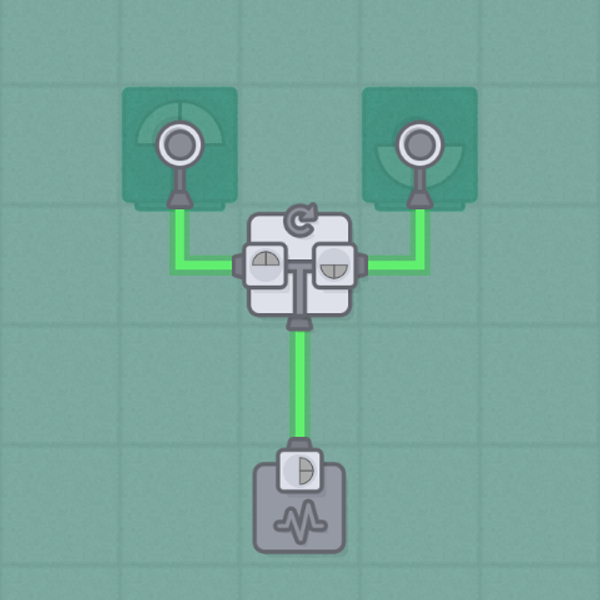
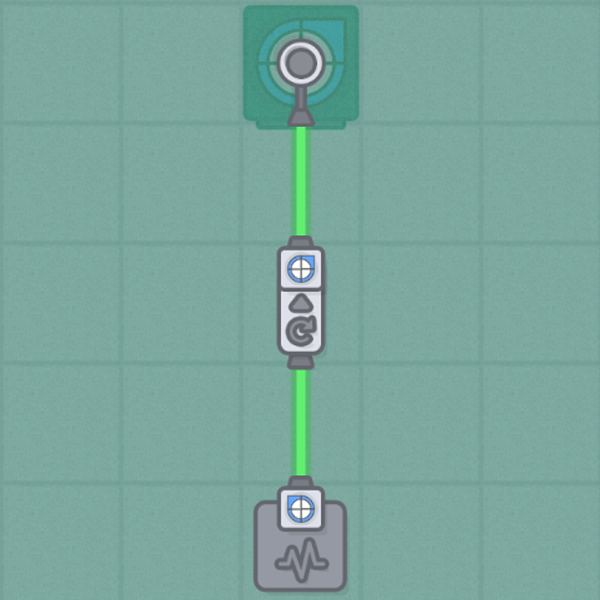
ColorZ-ShrimpEdition Mod Is Out !

Changed region(s): [[0.18, 0.0, 0.81, 0.99]]

diff --git a/src/js/game/colors.js b/src/js/game/colors.js
@@ -2,23 +2,13 @@ var colors = [];
 
 var HexToRGB = function(hex) {
     var aRgbHex = hex.match(/.{1,2}/g);
-    var r = parseInt(aRgbHex[0], 16);
-    var g = parseInt(aRgbHex[1], 16);
-    var b = parseInt(aRgbHex[2], 16);
-    var R = r.toString();
-    var G = g.toString();
-    var B = b.toString();
+    var R = parseInt(aRgbHex[0], 16).toString();
+    var G = parseInt(aRgbHex[1], 16).toString();
+    var B = parseInt(aRgbHex[2], 16).toString();
     while (R.length < 3){R = "0" + R};
     while (G.length < 3){G = "0" + G};
     while (B.length < 3){B = "0" + B};
     return R + G + B;
-}
-
-var rgbToHex = function(rgb) {
-    var r = colorToHex(rgb.slice(0, 3));
-    var g = colorToHex(rgb.slice(3, 6));
-    var b = colorToHex(rgb.slice(6, 9));
-    return r+g+b;
 }
 
 var RandGandBToHex = function(R, G, B) {
@@ -36,11 +26,11 @@ var colorToHex = function (color) {
     return hex;
 }
 
-var HexToReadableRGB = function (hex) {
-    var RGB = HexToRGB(hex.slice(1));
-    var R = RGB.slice(0,3);
-    var G = RGB.slice(3,6);
-    var B = RGB.slice(6,9);
+export const HexToReadableRGB = function (hex) {
+    const RGB = HexToRGB(hex);
+    const R = RGB.slice(0,3);
+    const G = RGB.slice(3,6);
+    const B = RGB.slice(6,9);
     return "(" + R + "," + G + "," + B + ")"
 }
 
@@ -104,21 +94,11 @@ for (var R = 0; R < colorCount + 1; R++) {
     }   
 }
 
-if (colorCount >= 20) {
+if (colorCount < 20) {
     colors.push("aaaaaa");
 }
 
-
-/* colors.push(red);
-colors.push(green);
-colors.push(blue);
-colors.push(black); */
-
 export const enumColors = {};
-export const enumShortcodeToColor = {};
-export const enumColorsToHexCode = {}
-export const HexCodeToRGBCode = {};
-export const enumColorsToR_G_B = {};
 
 
 export const oldShortCodeToNewShortCode = {
@@ -134,21 +114,4 @@ export const oldShortCodeToNewShortCode = {
 
 for(const c of colors) {
     enumColors[c] = c;
-}
-
-/** @enum {string} */
-export const enumColorToShortcode = enumColors;
-
-/** @enum {string} */
-for(const c of colors) {
-    enumColorsToHexCode[c] = ("#" + c);
-}
-
-/** @enum {enumColors} */
-for (const key in enumColorToShortcode) {
-    enumShortcodeToColor[enumColorToShortcode[key]] = key;
-}
-
-for (const c of colors) {
-    HexCodeToRGBCode[c] = HexToReadableRGB(enumColorsToHexCode[c]);
 }

diff --git a/src/js/game/systems/color_observer.js b/src/js/game/systems/color_observer.js
@@ -1,17 +1,10 @@
 import { globalConfig } from "../../core/config";
-import { Loader } from "../../core/loader";
 import { BaseItem } from "../base_item";
-import { enumColors, enumColorsToHexCode} from "../colors";
 import { ColorObserverComponent } from "../components/color_observer";
-import { MetaColorObserverBuilding } from "../buildings/color_observer";
 import { GameSystemWithFilter } from "../game_system_with_filter";
-import { isTrueItem } from "../items/boolean_item";
 import { ColorItem, COLOR_ITEM_SINGLETONS } from "../items/color_item";
 import { MapChunkView } from "../map_chunk_view";
-import { MetaAnalyzerBuilding } from "../buildings/analyzer";
-import { THEME } from "../theme";
-import { Rectangle } from "../../core/rectangle";
-import { HexCodeToRGBCode } from "../colors"
+import { HexToReadableRGB } from "../colors"
 
 export class ColorObserverSystem extends GameSystemWithFilter {
     constructor(root) {
@@ -51,7 +44,7 @@ export class ColorObserverSystem extends GameSystemWithFilter {
     }
 
     DrawDisplayers(ctx, x, y, position, hex, a) {
-        const color = HexCodeToRGBCode[hex];
+        const color = HexToReadableRGB(hex);
         ctx.textAlign = "center";
         var text = "";
 
@@ -60,7 +53,7 @@ export class ColorObserverSystem extends GameSystemWithFilter {
             this.drawStroked(ctx, text, x + position + 15, y + 20, 64);  
         } else {
             text = color.slice(4 * a + 1, 4 * a + 4);
-            ctx.fillStyle = enumColorsToHexCode[hex];    
+            ctx.fillStyle = "#" + hex;    
             ctx.fillRect(x + position, y, 30, 30);
             this.drawStroked(ctx, text, x + position + 15, y + 20, 32);    
         }
@@ -148,7 +141,7 @@ export class ColorObserverSystem extends GameSystemWithFilter {
 
             const origin = entity.components.StaticMapEntity.origin;
             if (value instanceof ColorItem) {
-                parameters.context.fillStyle = enumColorsToHexCode[value.color];
+                parameters.context.fillStyle = "#" + value.color;
                 parameters.context.fillRect(
                     origin.x * globalConfig.tileSize,
                     origin.y * globalConfig.tileSize,

diff --git a/src/js/game/systems/display.js b/src/js/game/systems/display.js
@@ -1,17 +1,12 @@
 import { globalConfig } from "../../core/config";
-import { Loader } from "../../core/loader";
 import { BaseItem } from "../base_item";
-import { enumColors, enumColorsToHexCode} from "../colors";
+import { enumColors} from "../colors";
 import { DisplayComponent } from "../components/display";
 import { Dimension } from "../buildings/display";
 import { GameSystemWithFilter } from "../game_system_with_filter";
 import { isTrueItem } from "../items/boolean_item";
 import { ColorItem, COLOR_ITEM_SINGLETONS } from "../items/color_item";
 import { MapChunkView } from "../map_chunk_view";
-import { MetaAnalyzerBuilding } from "../buildings/analyzer";
-import { THEME } from "../theme";
-import { Rectangle } from "../../core/rectangle";
-import { MetaBuilding } from "../meta_building";
 
 export class DisplaySystem extends GameSystemWithFilter {
     constructor(root) {
@@ -84,7 +79,7 @@ export class DisplaySystem extends GameSystemWithFilter {
                 const origin = entity.components.StaticMapEntity.origin;
                 if (value.getItemType() === "color") {
                     const D_context = parameters.context;
-                    D_context.fillStyle = enumColorsToHexCode[value.getAsCopyableKey()];
+                    D_context.fillStyle = "#" + value.getAsCopyableKey();
                     D_context.fillRect((origin.x + 0.5) * globalConfig.tileSize - 15 + Dimension.x / 2 - 0.5, (origin.y + 0.5) * globalConfig.tileSize - 15 + Dimension.y / 2, 30 * Dimension.x, 30 * Dimension.y - 0.5)
                 } else if (value.getItemType() === "shape") {
                     value.drawItemCenteredClipped(
@@ -125,7 +120,7 @@ export class DisplaySystem extends GameSystemWithFilter {
 
             const origin = entity.components.StaticMapEntity.origin;
             if (value instanceof ColorItem) {
-                parameters.context.fillStyle = enumColorsToHexCode[value.color];
+                parameters.context.fillStyle = "#" + value.color;
                 parameters.context.fillRect(
                     origin.x * globalConfig.tileSize,
                     origin.y * globalConfig.tileSize,

diff --git a/src/js/game/hud/parts/shape_viewer.js b/src/js/game/hud/parts/shape_viewer.js
@@ -1,7 +1,7 @@
 import { InputReceiver } from "../../../core/input_receiver";
 import { makeDiv, removeAllChildren } from "../../../core/utils";
 import { T } from "../../../translations";
-import { enumColorsToHexCode, HexCodeToRGBCode } from "../../colors";
+import { HexToReadableRGB } from "../../colors";
 import { KeyActionMapper, KEYMAPPINGS } from "../../key_action_mapper";
 import { ShapeDefinition } from "../../shape_definition";
 import { BaseHUDPart } from "../base_hud_part";
@@ -104,19 +104,26 @@ export class HUDShapeViewer extends BaseHUDPart {
                 const quadElem = makeDiv(layerElem, null, ["quad", "quad-" + quad]);
 
                 const contents = layers[i][quad];
-                if (contents) {
+                if (contents && contents.color != "aaaaaa") {
                     const colorLabelElem = makeDiv(
                         quadElem,
                         null,
                         ["colorLabel"],
-                        HexCodeToRGBCode[contents.color]
+                        HexToReadableRGB(contents.color)
+                    );
+                } else if (!contents){
+                    const emptyLabelElem = makeDiv(
+                        quadElem,
+                        null,
+                        ["emptyLabel"],
+                        T.ingame.shapeViewer.empty
                     );
                 } else {
                     const emptyLabelElem = makeDiv(
                         quadElem,
                         null,
                         ["emptyLabel"],
-                        T.ingame.shapeViewer.empty
+                        "uncolored"
                     );
                 }
             }

diff --git a/src/js/game/shape_definition.js b/src/js/game/shape_definition.js
@@ -4,7 +4,7 @@ import { smoothenDpi } from "../core/dpi_manager";
 import { DrawParameters } from "../core/draw_parameters";
 import { Vector } from "../core/vector";
 import { BasicSerializableObject, types } from "../savegame/serialization";
-import { enumColors, enumColorsToHexCode, oldShortCodeToNewShortCode, enumShortcodeToColor } from "./colors";
+import { enumColors, oldShortCodeToNewShortCode } from "./colors";
 import { THEME } from "./theme";
 
 /**
@@ -250,7 +250,7 @@ export class ShapeDefinition extends BasicSerializableObject {
                     colorText = colorText.slice(1,7);
                 }
                 const subShape = enumShortcodeToSubShape[shapeText];
-                const color = enumShortcodeToColor[colorText];
+                const color = colorText;
 
                 // Valid shape
                 if (subShape) {
@@ -429,7 +429,7 @@ export class ShapeDefinition extends BasicSerializableObject {
                 context.translate(centerQuadrantX, centerQuadrantY);
                 context.rotate(rotation);
 
-                context.fillStyle = enumColorsToHexCode[color];
+                context.fillStyle = "#" + color;
                 context.strokeStyle = THEME.items.outline;
                 context.lineWidth = THEME.items.outlineWidth;
 

diff --git a/src/js/game/tutorial_goals_mappings.js b/src/js/game/tutorial_goals_mappings.js
@@ -30,8 +30,7 @@ const typed = x => x;
 export const enumHubGoalRewardsToContentUnlocked = {
     [enumHubGoalRewards.reward_cutter_and_trash]: typed([[MetaCutterBuilding, defaultBuildingVariant]]),
     [enumHubGoalRewards.reward_rotater]: typed([[MetaRotaterBuilding, defaultBuildingVariant]]),
-    [enumHubGoalRewards.reward_painter]: typed([[MetaPainterBuilding, defaultBuildingVariant]]),
-    [enumHubGoalRewards.reward_mixer]: typed([[MetaMixerBuilding, defaultBuildingVariant]]),
+    [enumHubGoalRewards.reward_painter_and_mixer]: typed([[MetaPainterBuilding, defaultBuildingVariant]]),
     [enumHubGoalRewards.reward_stacker]: typed([[MetaStackerBuilding, defaultBuildingVariant]]),
     [enumHubGoalRewards.reward_balancer]: typed([[MetaBalancerBuilding, defaultBuildingVariant]]),
     [enumHubGoalRewards.reward_tunnel]: typed([[MetaUndergroundBeltBuilding, defaultBuildingVariant]]),

diff --git a/src/js/game/items/color_item.js b/src/js/game/items/color_item.js
@@ -3,7 +3,7 @@ import { smoothenDpi } from "../../core/dpi_manager";
 import { DrawParameters } from "../../core/draw_parameters";
 import { types } from "../../savegame/serialization";
 import { BaseItem } from "../base_item";
-import { enumColors, enumColorsToHexCode } from "../colors";
+import { enumColors } from "../colors";
 import { THEME } from "../theme";
 import { drawSpriteClipped } from "../../core/draw_utils";
 
@@ -115,7 +115,7 @@ export class ColorItem extends BaseItem {
         context.translate((w * dpi) / 2, (h * dpi) / 2);
         context.scale((dpi * w) / 12, (dpi * h) / 12);
 
-        context.fillStyle = enumColorsToHexCode[this.color];
+        context.fillStyle = "#" + this.color;
         context.strokeStyle = THEME.items.outline;
         context.lineWidth = 2 * THEME.items.outlineWidth;
         context.beginCircle(2, -1, 3);

diff --git a/src/js/changelog.js b/src/js/changelog.js
@@ -1,12 +1,13 @@
 export const CHANGELOG = [
     {
-        version: "1.2.1",
-        date: "22.10.2020",
+        version: "ColorZ-ShrimpEdition Version 1.0",
+        date: " 22.10.2020",
         entries: [
+            "Some performance improvements.",
             "216 new ColorZ!",
             "1 New building.",
             "Now you can see displays' signal when zoomed out.",
-            "Sandbox controller now has full everything button that gives you so many bluprints, maxes every upgrade and levels you up 26 level.",
+            "Sandbox controller now has full everything button that gives you so many bluprints, maxes every upgrade and levels you up 26 level. And reset everything button that returns you 26 level earlier and makes all upgrades level 0",
         ],
     },
     {

diff --git a/src/js/game/hud/parts/color_blind_helper.js b/src/js/game/hud/parts/color_blind_helper.js
@@ -7,7 +7,7 @@ import { DrawParameters } from "../../../core/draw_parameters";
 import { THEME } from "../../theme";
 import { globalConfig } from "../../../core/config";
 //import { T } from "../../../translations";
-import {HexCodeToRGBCode} from "../../../game/colors"
+import { HexToReadableRGB } from "../../../game/colors"
 
 export class HUDColorBlindHelper extends BaseHUDPart {
     createElements(parent) {
@@ -25,7 +25,7 @@ export class HUDColorBlindHelper extends BaseHUDPart {
     onColorBelowTileChanged(color) {
         this.belowTileIndicator.classList.toggle("visible", !!color);
         if (color) {
-            this.belowTileIndicator.innerText = HexCodeToRGBCode[color];
+            this.belowTileIndicator.innerText = HexToReadableRGB(color);
         }
     }
 

diff --git a/src/js/game/modes/regular.js b/src/js/game/modes/regular.js
@@ -274,7 +274,7 @@ export function generateLevelDefinitions(limitedVersion = false) {
         {
             shape: "Cu------", // miners t2
             required: 270,
-            reward: enumHubGoalRewards.reward_painter,
+            reward: enumHubGoalRewards.reward_painter_and_mixer,
         },
 
         // 7
@@ -289,7 +289,7 @@ export function generateLevelDefinitions(limitedVersion = false) {
         {
             shape: "RbRb----", // painter t2
             required: 480,
-            reward: enumHubGoalRewards.reward_mixer,
+            reward: enumHubGoalRewards.no_reward,
         },
 
         // 9

diff --git a/src/js/game/tutorial_goals.js b/src/js/game/tutorial_goals.js
@@ -5,8 +5,7 @@
 export const enumHubGoalRewards = {
     reward_cutter_and_trash: "reward_cutter_and_trash",
     reward_rotater: "reward_rotater",
-    reward_painter: "reward_painter",
-    reward_mixer: "reward_mixer",
+    reward_painter_and_mixer: "reward_painter_and_mixer",
     reward_stacker: "reward_stacker",
     reward_balancer: "reward_balancer",
     reward_tunnel: "reward_tunnel",

diff --git a/src/js/game/buildings/painter.js b/src/js/game/buildings/painter.js
@@ -81,7 +81,7 @@ export class MetaPainterBuilding extends MetaBuilding {
      * @param {GameRoot} root
      */
     getIsUnlocked(root) {
-        return root.hubGoals.isRewardUnlocked(enumHubGoalRewards.reward_painter);
+        return root.hubGoals.isRewardUnlocked(enumHubGoalRewards.reward_painter_and_mixer);
     }
 
     /**
